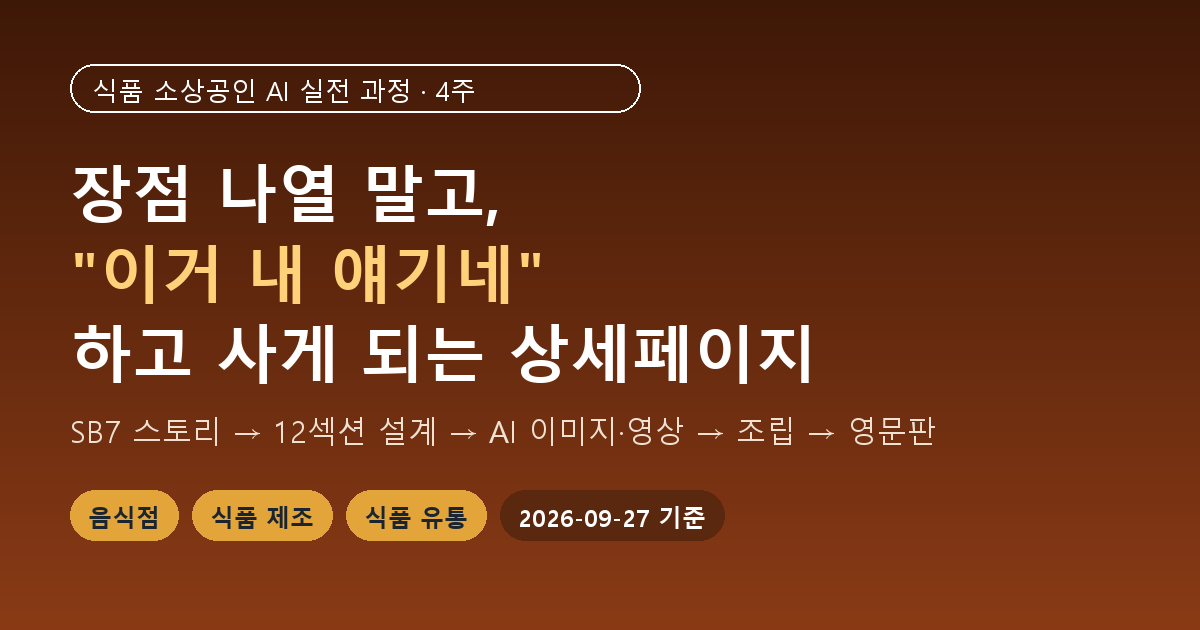
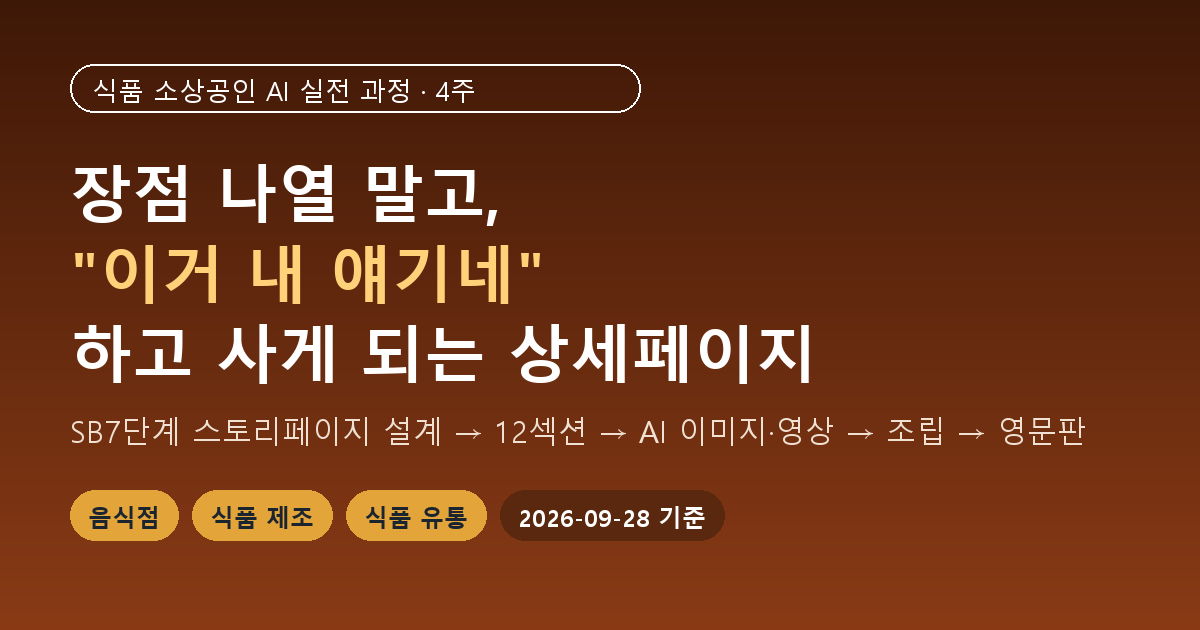
미리보기 문구: SB7단계 스토리페이지 설계 (설명·og.png)

diff --git a/docs/index.html b/docs/index.html
@@ -10,7 +10,7 @@
 <meta property="og:type" content="website">
 <meta property="og:site_name" content="소상공인 AI 실전 과정">
 <meta property="og:title" content="팔리는 이야기를 만드는 AI 상세페이지 4주 과정 · 식품 소상공인 실습 교안">
-<meta property="og:description" content="SB7 스토리 설계 → 12섹션 전환 구조 → AI 이미지·영상 → 조립·검수 → 영문판. 음식점·식품 제조·유통 사장님용 따라하기 교안 (2026-09-27 기준)">
+<meta property="og:description" content="SB7단계 스토리페이지 설계 → 12섹션 전환 구조 → AI 이미지·영상 → 조립·검수 → 영문판. 음식점·식품 제조·유통 사장님용 따라하기 교안 (2026-09-27 기준)">
 <meta property="og:url" content="https://food-sb7.edunfuture.workers.dev/">
 <meta property="og:image" content="https://food-sb7.edunfuture.workers.dev/og.png">
 <meta property="og:image:width" content="1200">
